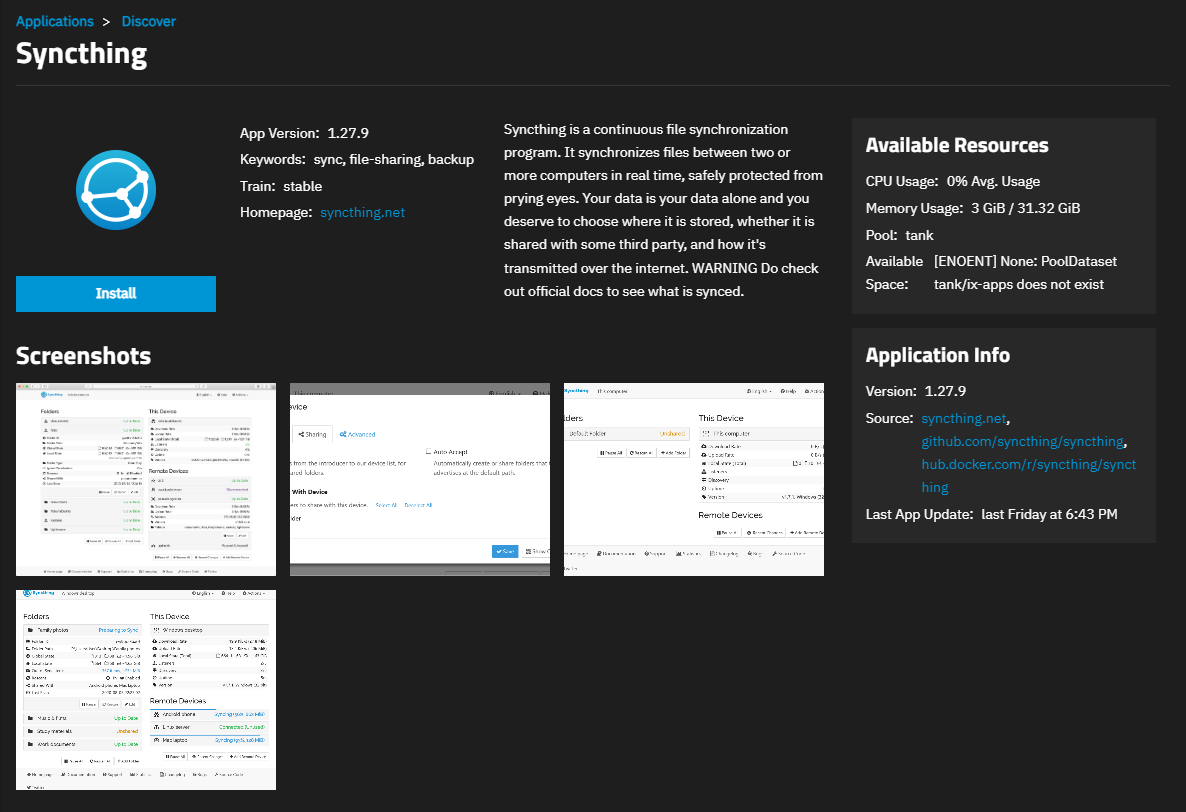
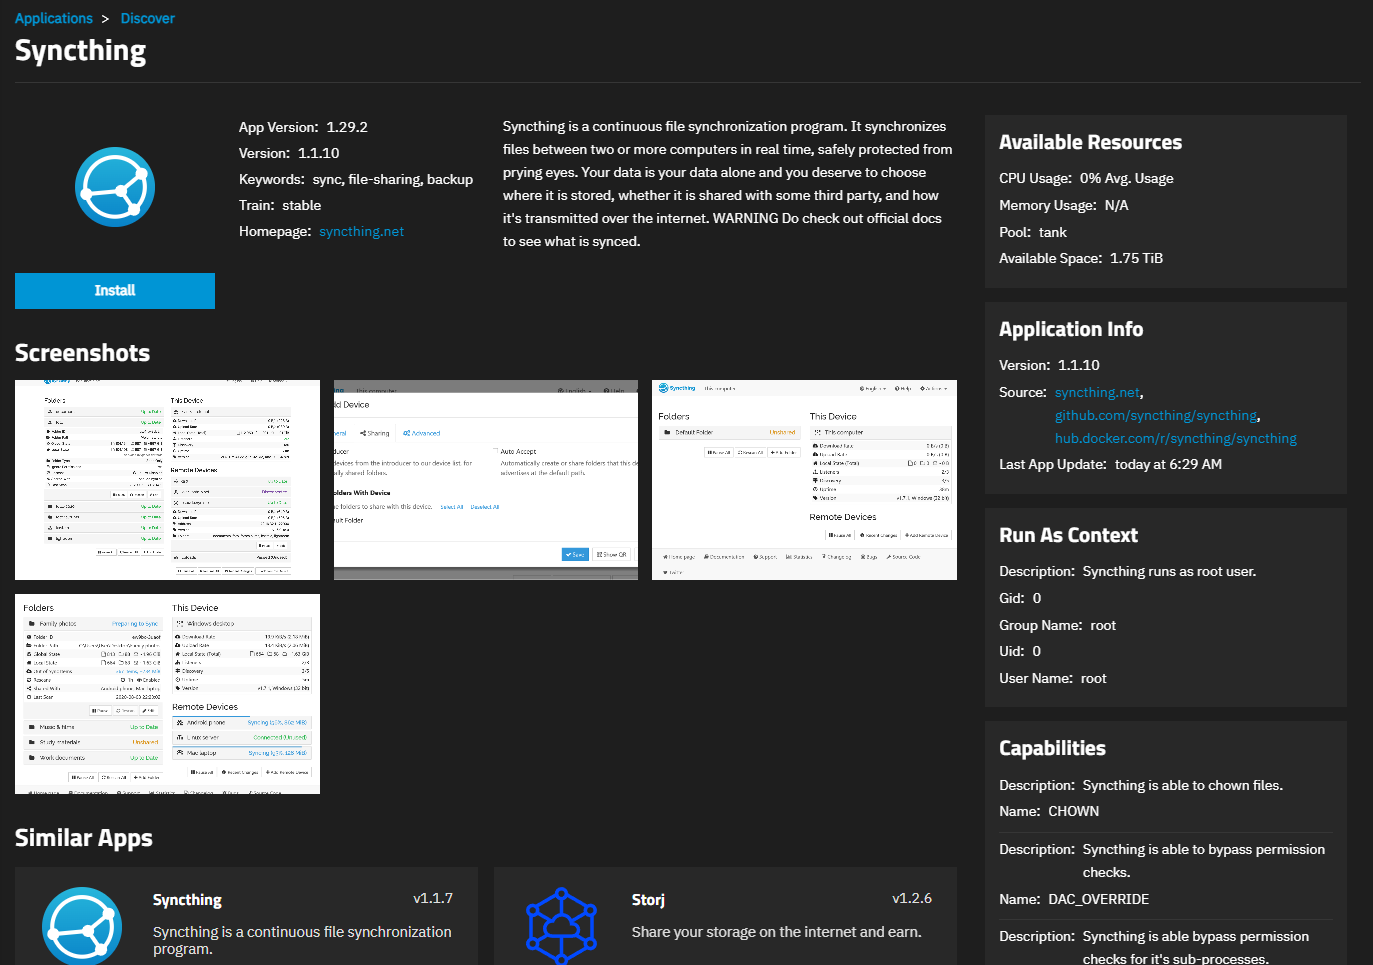
PD-1647 Update Stable and Enterprise Syncthing tutorials
This commit updates both syncthing tutorials.

diff --git a/content/TruenasApps/StableApps/SyncthingStable.md b/content/TruenasApps/StableApps/SyncthingStable.md
@@ -29,43 +29,73 @@ The **stables** and **enterprise** train versions of the Syncthing app widget di
 ## Before Installing Syncthing
 Before launching the app installation wizard, do the following:
 
-* Create the required dataset, **config** and an optional **data1**.
-  
-  Syncthing stores configuration  information in the **config** dataset. You can use the **data1** dataset to store application data.
-
 {{< include file="/static/includes/apps/SyncthingFirstSteps.md" >}}
+To install the Syncthing **stable** train app, do the following:
 
+{{< include file="/static/includes/apps/BeforeYouBeginStableApps.md" >}}
+{{< include file="/static/includes/apps/BeforeYouBeginRunAsUser.md" >}}
+
+<div style="margin-left: 33px">{{< trueimage src="/images/SCALE/Apps/SyncthingAppDetailsScreen.png" alt="Syncthing App Details Screen" id="Syncthing App Details Screen" >}}</div>
+
+{{< include file="/static/includes/apps/BeforeYouBeginAddNewAppUser.md" >}}
+
+{{< include file="/static/includes/apps/BeforeYouBegingAddNewAppUser.md" >}}
+
+{{< include file="/static/includes/apps/BeforeYouBeginAddAppDatasets.md" >}}
+
+<div style="margin-left: 33px"><a href="https://www.truenas.com/docs/scale/scaletutorials/datasets/datasetsscale/">Create the dataset(s)</a> before beginning the app installation process.
+Syncthing enterprise train app requires two datasets, <b>config</b> to store configuration data and <b>data1</b> to store app data.
+
+Follow the instructions below in <b>Creating Datasets for Apps</b> to correctly create the dataset(s).
+You can organize the app dataset(s) under a parent dataset to keep them separated from datasets for other applications.
+For example, create a <i>syncthing</i> parent dataset with these datasets nested under it.
+If you organize the required dataset(s) under a parent dataset, set up the required ACL permissions for the parent dataset before using the app installation wizard to avoid receiving installation wizard errors.
+Use the <b>Enable ACL</b> option in the <b>Install Sycnting</b> wizard to configure permissions for the <b>home</b> and <b>data1</b> datasets.</div>
+
+<div style="margin-left: 33px">{{< include file="/static/includes/apps/BeforeYouBeginAddAppDatasetsProcedure.md" >}}
+</div>
+
+<div style="margin-left: 33px">{{< expand "Configuring Parent Dataset Permissions" "v" >}} 
+Select the parent dataset row on the **Datasets** screen tree table, scroll down to the **Permissions** widget, and click **Edit** to open the <b>Edit ACL</b> screen.
+Set the <b>@owner</b> and <b>@group</b> to <b>admin</b> or the name of your TrueNAS administration user account, and click <b>Apply Owner</b> and <b>Apply Group</b>.
+
+Next, click **Add Item** to add an ACE entry for the <b>Syncthing</b> run as user, <b>0</b>. Give the user full permissions.
+
+See [Setting Up Permissions]({{< relref "PermissionsSCALE.md" >}}) and [Edit ACL Screen]({{< relref "EditACLScreens.md" >}}) for more information.
+{{< /expand >}}</div>
 ## Installing the Syncthing Application
 {{< hint info >}}
-This basic procedure covers the required Syncthing stable app settings.
-For optional settings, see [Understanding Syncthing Wizard Settings](#understanding-Sycnthing-wizard-settings).
+This basic procedure covers the required Syncthing app settings.
+For optional settings, see [Understanding App Installation Wizard Settings](#understanding-app-installation-wizard-settings).
 {{< /hint >}}
 
+{{< include file="/static/includes/apps/MultipleAppInstancesAndNaming.md" >}}
 {{< include file="/static/includes/apps/LocateAndOpenInstallWizard.md" >}}
 
-{{< trueimage src="/images/SCALE/Apps/InstallSyncthingEnterpriseScreen.png" alt="Install Syncthing Enterprise Screen" id="Install Syncthing Enterprise Screen" >}}
+{{< trueimage src="/images/SCALE/Apps/InstallSyncthingScreen.png" alt="Install Syncthing Screen" id="Install Syncthing Screen" >}}
 
 {{< include file="/static/includes/apps/InstallWizardAppNameAndVersion.md" >}}
 
-{{< include file="/static/includes/apps/MultipleAppInstancesAndNaming.md" >}}
-
-Accept the default user and group ID settings (**568**).
-If you created a user for this app, change these settings to the UID/GID for that new user.
+Accept the default user and group ID settings (**0**).
 
 Accept the default port numbers in **Networking**, and leave the **Host Network** cleared.
-See [Network Settings](#networking-settings) below for more information on network settings.
+For more information on network settings, see [Network Settings](#networking-settings) below.
 
 Configure the storage settings.
-Syncthing uses one dataset and mount paths, but you can add as many as you want. Set the first to **/config** with the host path set to the **config** dataset.
-Another optional mount point can be **/data1** with the host path set to a **data1** dataset.
+Syncthing uses two datasets. First, set **Type** to **Host Path (Path that already exists on the system.
+Select **Enable ACL**.
+Enter or browse to select the **config** with the host path set to the **config** dataset.
+Click **Add** to the right of **ACL Entries**. Set **ID type** to **Entry is for a USER**, enter **0** in **ID** and give this full control permissions.
+
+Select **Force Flag** to allow upgrading the app. This allows writing to the dataset when there is exsiting data.
+
+Click **Add** to the right of **Additional Storage** to add another set of storage settings.
+Repeat the instructions above to add the storage volume for the  **data1** dataset.
 The Syncthing stable train app **config** stores app configuration data.
-An additional storage volumes such as a *data* or *data1* dataset can store data but this is not required.
 
-{{< trueimage src="/images/SCALE/Apps/InstallSyncthingConfigAndData1ACLandACESettings.png" alt="Syncthing Storage and ACL Settings" id="Syncthing Storage and ACL Settings" >}}
+{{< trueimage src="/images/SCALE/Apps/InstallSyncthingStorageConfigACLandACESettings.png" alt="Syncthing Config Dataset ACL and ACE Settings" id="Syncthing Config Dataset ACL and ACE Settings" >}}
 
-{{< include file="/static/includes/apps/InstallWizardStorageACLConfig.md" >}}
-
-See [**Storage Settings**](#storage-settings) below for more information.
+For more information on storage settings, see [**Storage Settings**](#storage-settings) below.
 
 {{< include file="/static/includes/apps/SyncthingCompleteInstall.md" >}}
 
@@ -79,7 +109,7 @@ Go to **Actions > Settings** and set a user password for the web UI.
 
 {{< include file="/static/includes/SyncthingWebPortalInfo.md" >}}
 
-## Understanding TrueNAS Syncthing Wizard Settings
+## Understanding App Installation Wizard Settings
 The following sections provide more detail explanations of the settings found in each section of the **Install Syncthing** screen.
 
 ### Application Name Settings
@@ -87,17 +117,16 @@ The following sections provide more detail explanations of the settings found in
 {{< include file="/static/includes/apps/InstallWizardAppNameAndVersion.md" >}}
 
 ### Configuration Settings
-The Syncthing app wizard is configured with all settings required to deploy the container, but you can add additional settings if you want to further customize the app in TrueNAS.
 
-{{< trueimage src="/images/SCALE/Apps/InstallSyncthingWizardSyncthingConfigSettings.png" alt="Add Syncthing Variables" id="Add Syncthing Environment Variables" >}}
+{{< include file="/static/includes/apps/InstallWizardEnvironVariablesSettings.md" >}}
 
-{{< include file="/static/includes/apps/AppInstallWizardEnvironVariablesSettings.md" >}}
+Click here for more information on [Syncthing environmental variables](https://docs.syncthing.net/v1.22.0/users/syncthing.html)
 
 ### User and Group Settings
-Accept the user and group defaults settings in **User and Group Configuration**, or enter new user and group IDs for the user created to administer this app.
-The default value for **User Id** and **Group ID** is **568**.
 
-{{< include file="/static/includes/apps/AppInstallWizardUserAndGroupConfig.md" >}}
+{{< trueimage src="/images/SCALE/Apps/InstallSyncthingEnterpriseUserAndGroupConfig.png" alt="Syncthing Enterprise User and Group IDs" id="Syncthing Enterprise User and Group IDs" >}}
+
+{{< include file="/static/includes/apps/InstallWizardUserAndGroupConfig.md" >}}
 
 ### Networking Settings
 Accept the default port numbers in **Web Port for Syncthing**, **TCP Port for Syncthing**, and **UDP Port for Syncthing**.
@@ -106,24 +135,50 @@ The default TCP port is **20978** and the default UDP port is **20979**.
 
 {{< trueimage src="/images/SCALE/Apps/InstallSyncthingStableNetworking.png" alt="Syncthing (stable) Network Configuration" id="Syncthing (stable) Network Configuration" >}}
 
-{{< include file="/static/includes/apps/AppInstallWizardNetworkConfig.md" >}}
+{{< include file="/static/includes/apps/InstallWizardDefaultPorts.md" >}}
 
-Clearing the **Host Network** checkbox shows the TCP and UDP port numbers, and the web UI listens on port **22000**. 
+{{< include file="/static/includes/apps/InstallWizardHostNetworkConfig.md" >}}
 
-#### Advanced DNS Settings
+Disabling **Host Network** shows the TCP and UDP port numbers, and sets the web UI to listen on port **22000**.
 
-{{< trueimage src="/images/SCALE/Apps/InstallSyncthingChartsAddAdvanceDNSOptions.png" alt="Syncthing Add Advanced DNS Options" id="Syncthing Add Advanced DNS Options" >}}
-
-{{< include file="/static/includes/apps/InstallWizardAdvancedDNSSettings.md" >}}
+{{< include file="/static/includes/apps/InstallWizardAdvancedDNSSettings.md" >}
 
 ### Storage Settings
-The Syncthing **stable** train app requires one storage volume/dataset to store configuration data and you can use a second dataset for app data storage. Create one named **config** and the other dataset named **data1**.
+TrueNAS provides two storage options for storage volumes: ixVolumes and host paths.
+
+{{< trueimage src="/images/SCALE/Apps/InstallSyncthingStorageConfigACLandACESettings.png" alt="Syncthing Config Dataset ACL and ACE Settings" id="Syncthing Config Dataset ACL and ACE Settings" >}}
+
+To allow TrueNAS to create the storage volume, leave **Type** set to **ixVolume (Dataset created automatically by the system)**.
+This adds a storage volume for the application nested in the hidden **ix-apps** dataset, located on the pool selected as the apps pool.
+Using ixVolume is intended for a test deployment of an app but not for a full app deployment, as data does not persist for these volumes after deleting the app where a dataset does.
+Datasets make recovering, transferring, and accessing app configuration, user, or other data possible where ixVolumes do not.
+
+To use an existing dataset (recommended option), set **Type** to **Host Path (Path that already exists on the system**).
+
+The Syncthing **stable** train app requires two storage volumes/datasets to store configuration data and app data storage. Create one named **config** and another dataset named **data1**.
 
 {{< include file="/static/includes/apps/InstallAppsStorageConfig.md" >}}
 
-{{< trueimage src="/images/SCALE/Apps/InstallSyncthingConfigAndData1ACLandACESettings.png" alt="Config and Data1 Host Path ACL and ACE Settings" id="Config and Data1 Host Path ACL and ACE Settings" >}}
+If you organize the config dataset under a parent dataset named *syncthing*, configure the ACL permissions for this parent dataset and add an ACE entry for the root user.
 
-#### Mounting an SMB Share
+You can add extra storage volumes during the app installation, or edit the application after it deploys. Stop the app before editing settings.
+
+#### Setting Dataset ACL Permissions
+You can configure ACL permissions for the required dataset in the **Install Syncthing** wizard, or from the **Datasets** screen after adding the datasets.
+
+{{< include file="/static/includes/apps/InstallWizardStorageACLConfig.md" >}}
+
+{{< expand "Adding ACL Permissions from the Datasets Screen" "v">}}
+First, select the dataset row, scroll down to the **Permissions** widget, and click **Edit** to open the **Edit ACL** screen.
+Change the **@owner** and **@group** values from **root** to the administrative user for your TrueNAS system, and click apply for each.
+Next, add an ACL entry for the run-as user.
+For Syncthing, the run-as user is **0**. Add a user entry for this user.
+Save the ACL before leaving the screen.
+
+For more infomration, see [Setting Up Permissions]({{< relref "PermissionsSCALE.md" >}}) and [Edit ACL Screen]({{< relref "EditACLScreens.md" >}}).
+{{< /expand >}}
+
+#### Mounting an SMB Share Storage Volume
 The TrueNAS Syncthing app includes the option to mount an SMB share inside the container pod.
 
 {{< include file="/static/includes/apps/InstallWizardStorageSMBOption.md" >}}

diff --git a/content/TruenasApps/EnterpriseApps/Syncthing.md b/content/TruenasApps/EnterpriseApps/Syncthing.md
@@ -39,7 +39,7 @@ To install the Syncthing **enterprise** train app, do the following:
 {{< include file="/static/includes/apps/BeforeYouBeginStableApps.md" >}}
 {{< include file="/static/includes/apps/BeforeYouBeginRunAsUser.md" >}}
 
-<div style="margin-left: 33px">{{< trueimage src="/images/SCALE/Apps/SyncthingEnterpriseDetailsScreen.png" alt="MinIO Enterprise App Details Screen" id="MinIO Enterprise App Details Screen" >}}</div>
+<div style="margin-left: 33px">{{< trueimage src="/images/SCALE/Apps/SyncthingEnterpriseDetailsScreen.png" alt="Syncthing Enterprise App Details Screen" id="Syncthing Enterprise App Details Screen" >}}</div>
 
 {{< include file="/static/includes/apps/BeforeYouBeginAddNewAppUser.md" >}}
 
@@ -96,7 +96,7 @@ Select **Host Network** to bind to the default host settings programmed for Sync
 Accept the default web port **8384**. Before changing ports, see [Default Ports](https://www.truenas.com/docs/references/defaultports/) for a list of assigned port numbers.
 
 If created, select the certificate for Syncthing from the **Certificates** dropdown list.
-See [Network Settings](#networking-settings) below for more information on network settings.
+For more information, see [Network Settings](#networking-settings) below.
 
 Configure the storage settings.
 Syncthing uses two datasets. Set **Type** to **Host Path (Path that already exists on the system)**
@@ -105,7 +105,7 @@ The other mount point is **/data1** with the host path set to the **data1** data
 Click **Add** to the right of **ACL Entries**.
 Set **ID** to **Entry is for a USER**, enter **0** in **ID**, and then give the user full control permissions.
 
-Select **Force Flag** to allow upgrading the app. This allows writing to the dataset when there is exisiting data.
+Select **Force Flag** to allow upgrading the app. This allows writing to the dataset when there is existing data.
 
 {{< trueimage src="/images/SCALE/Apps/InstallSyncthingStorageHomeACLandACESettings.png" alt="Home Host Path ACL and ACE Settings" id="Home Host Path ACL and ACE Settings" >}}
 
@@ -114,8 +114,8 @@ Repeat for the **/data1** storage volume. Click **Add** to the right of **Additi
 Set **Type** to **Host Path**.
 Select **Enable ACL**, then enter or browse to select the path to the **data1** dataset. Add the run as user, **0** as an ACE entry with full control permissions.
 
-If migrating from some other NAS system, set **Type** to **SMB/CIFS Share (Mounts a volume to an SMB share)**, and then select **Migrate Data**.
-See [**Storage Settings**](#storage-settings) below for more information.
+If migrating from another NAS system, set **Type** to **SMB/CIFS Share (Mounts a volume to an SMB share)**, and then select **Migrate Data**.
+For more information, see [**Mounting an SMB Share Storage Volume**](#mounting-an-smb-share-storage-volume) below.
 
 {{< include file="/static/includes/apps/SyncthingCompleteInstall.md" >}}
 
@@ -140,25 +140,28 @@ The following sections provide detailed explanations of the settings found in ea
 
 #### Adding Environmental Variables
 
-{{< include file="/static/includes/apps/AppInstallWizardEnvironVariablesSettings.md" >}}
+{{< include file="/static/includes/apps/InstallWizardEnvironVariablesSettings.md" >}}
 
 Click here for more information on [Syncthing environmental variables](https://docs.syncthing.net/v1.22.0/users/syncthing.html)
+
 ### User and Group Settings
 
 {{< trueimage src="/images/SCALE/Apps/InstallSyncthingEnterpriseUserAndGroupConfig.png" alt="Syncthing Enterprise User and Group IDs" id="Syncthing Enterprise User and Group IDs" >}}
 
-{{< include file="/static/includes/apps/AppInstallWizardUserAndGroupConfig.md" >}}
+{{< include file="/static/includes/apps/InstallWizardUserAndGroupConfig.md" >}}
 
 ### Networking Settings
-The TrueNAS Syncthing enterprise app listens on port **8384**.
+The Syncthing enterprise app listens on port **8384**.
 
 {{< trueimage src="/images/SCALE/Apps/InstallSyncthingEnterpriseNetworkSettings.png" alt="Syncthing Enterprise Network Settings" id="Syncthing Enterprise Network Settings" >}}
 
-{{< include file="/static/includes/apps/AppInstallWizardNetworkConfig.md" >}}
+{{< include file="/static/includes/apps/InstallWizardDefaultPorts.md" >}}
+
+{{< include file="/static/includes/apps/InstallWizardHostNetworkConfig.md" >}}
 
 Disabling **Host Network** shows the TCP and UDP port numbers, and sets the web UI to listen on port **22000**.
 
-{{< include file="/static/includes/apps/AppInstallWizardCertificateSettings.md" >}}
+{{< include file="/static/includes/apps/InstallWizardCertificateSettings.md" >}}
 
 ### Storage Settings
 TrueNAS provides two storage options for storage volumes: ixVolumes and host paths.
@@ -168,9 +171,9 @@ This adds a storage volume for the application nested in the hidden **ix-apps** 
 Using ixVolume is intended for a test deployment of an app but not for a full app deployment, as data does not persist for these volumes after deleting the app where a dataset does.
 Datasets make recovering, transferring, and accessing app configuration, user, or other data possible where ixVolumes do not.
 
-To use an existing dataset, which is the recommended option, set **Type** to **Host Path (Path that already exists on the system**).
+To use an existing dataset (recommended option), set **Type** to **Host Path (Path that already exists on the system**).
 
-The Syncthing **enterprise** train app requires two storage volumes/datasets to store configuration data and app data storage. Create one named **home** and the other dataset named **data1**.
+The Syncthing **enterprise** train app requires two storage volumes/datasets to store configuration data and app data storage. Create one named **home** and another dataset named **data1**.
 
 {{< include file="/static/includes/apps/InstallAppsStorageConfig.md" >}}
 
@@ -179,7 +182,7 @@ If you organize the config dataset under a parent dataset named *syncthing*, con
 You can add extra storage volumes during the app installation, or edit the application after it deploys. Stop the app before editing settings.
 
 #### Setting Dataset ACL Permissions
-You can configure ACL permissions for the required dataset in the **Install Syncthing** wizard, or from the **Datasets** screen any time after adding the datasets.
+You can configure ACL permissions for the required dataset in the **Install Syncthing** wizard, or from the **Datasets** screen after adding the datasets.
 
 {{< include file="/static/includes/apps/InstallWizardStorageACLConfig.md" >}}
 
@@ -190,11 +193,11 @@ Next, add an ACL entry for the run-as user.
 For Syncthing, the run-as user is **0**. Add a user entry for this user.
 Save the ACL before leaving the screen.
 
-See [Setting Up Permissions]({{< relref "PermissionsSCALE.md" >}}) and [Edit ACL Screen]({{< relref "EditACLScreens.md" >}}) for more information.
+For more infomration, see [Setting Up Permissions]({{< relref "PermissionsSCALE.md" >}}) and [Edit ACL Screen]({{< relref "EditACLScreens.md" >}}).
 {{< /expand >}}
 
-#### Mounting an SMB Share
-The TrueNAS Syncthing Enterprise app includes the option to mount an SMB share inside the container pod and to migrate data from some other NAS to TrueNAS.
+#### Mounting an SMB Share Storage Volume
+The TrueNAS Syncthing Enterprise app includes the option to mount an SMB share inside the container pod and to migrate data from another NAS to TrueNAS.
 
 Selecting **Migrate Data** forces a read-only mount regardless of the **Read Only** checkbox selection.
 The SMB mount options are set to **vers=3.0**, **cifsacl**, and **noperm**.
@@ -206,7 +209,7 @@ ACL preservation is not guaranteed if in a non-AD environment, or if the ACL or 
 
 {{< trueimage src="/images/SCALE/Apps/InstallSyncthingEnterpriseResourcesConfig.png" alt="Syncthing Enterprise Resource Limits" id="Syncthing Enterprise Resource Limits" >}}
 
-{{< include file="/static/includes/apps/AppInstallWizardResourceConfig.md" >}}
+{{< include file="/static/includes/apps/InstallWizardResourceConfig.md" >}}
 
 ## Increasing inotify Watchers
 Syncthing uses [inotify](https://man7.org/linux/man-pages/man7/inotify.7.html) to monitor file system events, with one inotify watcher per monitored directory.
@@ -227,7 +230,7 @@ Click **Add** to open the **Add Sysctl** screen.
 Enter **fs.inotify.max_user_watches** in **Variable**.
 
 Enter a **Value** larger than the number of directories monitored by Syncthing.
-There is a small memory impact for each inotify watcher of 1080 bytes, so it is best to start with a lower number, we suggest 204800 and increase if needed.
+There is a small memory impact of 1080 bytes for each inotify watcher, so it is best to start with a lower number, we suggest 204800 and increase if needed.
 
 Enter a **Description** for the variable, such as *Increase inotify limit*.
 
